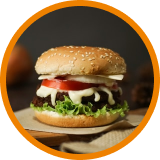
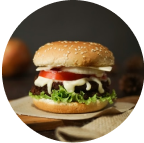
Finalizando componente de produto

diff --git a/src/pages/Hall/index.js b/src/pages/Hall/index.js
@@ -58,18 +58,38 @@ export default function Hall() {
 
 					</section >
 					<section className="products">
-						<ProductArea
-							inputClass='hidden menu-item-name'
-							inputId='carne'
-							inputName='meat-options'
-							inputValue='Hambúrg. de Carne'
-							// inputOnChange={}
-							labelClass='label-item-box'
-							menuItemSrc={burger}
-							menuItemDescription='Hambúrguer de Carne'
-							menuItemClassName='menu-item-name'
-							menuItemText='Simples'
-						/>
+						<div className="products-row">
+						
+							<ProductArea
+								inputClass='hidden product-name'
+								inputId='simples'
+								inputName='burger-options'
+								inputValue='Hambúrg. Simples'
+								// inputOnChange={}
+								labelClassName='label-product-box'
+								productImg={burger}
+								productImgAlt='burger example'
+								productClassName='product-name'
+								productName='Simples'
+								productPrice="R$ 10,00"
+								priceClassName="product-price"
+							/>
+
+							<ProductArea
+								inputClass='hidden product-name'
+								inputId='duplo'
+								inputName='burger-options'
+								inputValue='Hambúrg. Duplo'
+								// inputOnChange={}
+								labelClassName='label-product-box'
+								productImg={burger}
+								productImgAlt='burger example'
+								productClassName='product-name'
+								productName='Duplo'
+								productPrice="R$ 15,00"
+								priceClassName="product-price"
+							/>
+						</div>
 					</section>
 					<section className="wrapper">
 					<CartArea />

diff --git a/src/components/ProductArea/index.js b/src/components/ProductArea/index.js
@@ -4,17 +4,19 @@ import React from 'react';
 import './productArea.scss';
 
 export default function ProductArea( {
-    menuItemSrc,
-    menuItemDescription,
-    menuItemText,
+    productImg,
+    productImgAlt,
+    productName,
+    productPrice,
     inputClass,
     inputId,
     inputName,
     inputValue,
     inputChecked,
     // inputOnChange,
-    labelClass,
-    menuItemClassName,
+    labelClassName,
+    productClassName,
+    priceClassName,
 }) {
 	return (
 		<div className="product-container">
@@ -29,14 +31,15 @@ export default function ProductArea( {
             />
             <label
                 htmlFor={inputId}
-                className={labelClass}
+                className={labelClassName}
                 >
                 <img
                     className='product-image'
-                    src={menuItemSrc}
-                    alt={menuItemDescription}
+                    src={productImg}
+                    alt={productImgAlt}
                 />
-                <p className={menuItemClassName}>{menuItemText}</p>
+                <p className={productClassName}>{productName}</p>
+                <p className={priceClassName}>{productPrice}</p>
             </label>
         </div>
 	);

diff --git a/src/components/ProductArea/productArea.scss b/src/components/ProductArea/productArea.scss
@@ -13,29 +13,31 @@
 .product-container {
     display: flex;
     flex-direction: column;
-}
-
-.label-item-box {
-    display: flex;
-    flex-direction: column;
     align-items: center;
 }
 
 .product-image {
-    width: 8rem;
-    height: 8rem;
+    width: 5rem;
+    height: 5rem;
     border-radius: 50%;
+    cursor: pointer;
 }
 
-.menu-item-name {
+.product-name {
     color: var(--white);
-    padding: 0.25rem 0.6rem;
     width: auto;
     position: relative;
     top: 0.5rem;
     text-align: center;
     font-weight: bold;
-  }
+    cursor: pointer;
+}
+
+.product-price{
+    color: var(--white);
+    cursor: pointer;
+    text-align: center;
+}
   
 .product-container input:checked + label > img {
     border: 0.3rem solid var(--yellow);
@@ -43,4 +45,8 @@
   
 .product-container input:checked + label > p {
     color: var(--yellow);
+}
+
+.label-product-box {
+    margin-top: -2rem;
 }

diff --git a/src/pages/Hall/hall.scss b/src/pages/Hall/hall.scss
@@ -57,7 +57,17 @@ main{
     }
 
     .products{
-        width:100%;
+        width:100%; 
+        height: 90%;      
+    }
+
+    .products-row {
+        display: flex;
+        justify-content: space-around;
+        background-color:var(--light-gray);
+        height: 15vh;
+        margin: 3rem 2rem;
+        border-radius: 5px;
     }
 
 }
